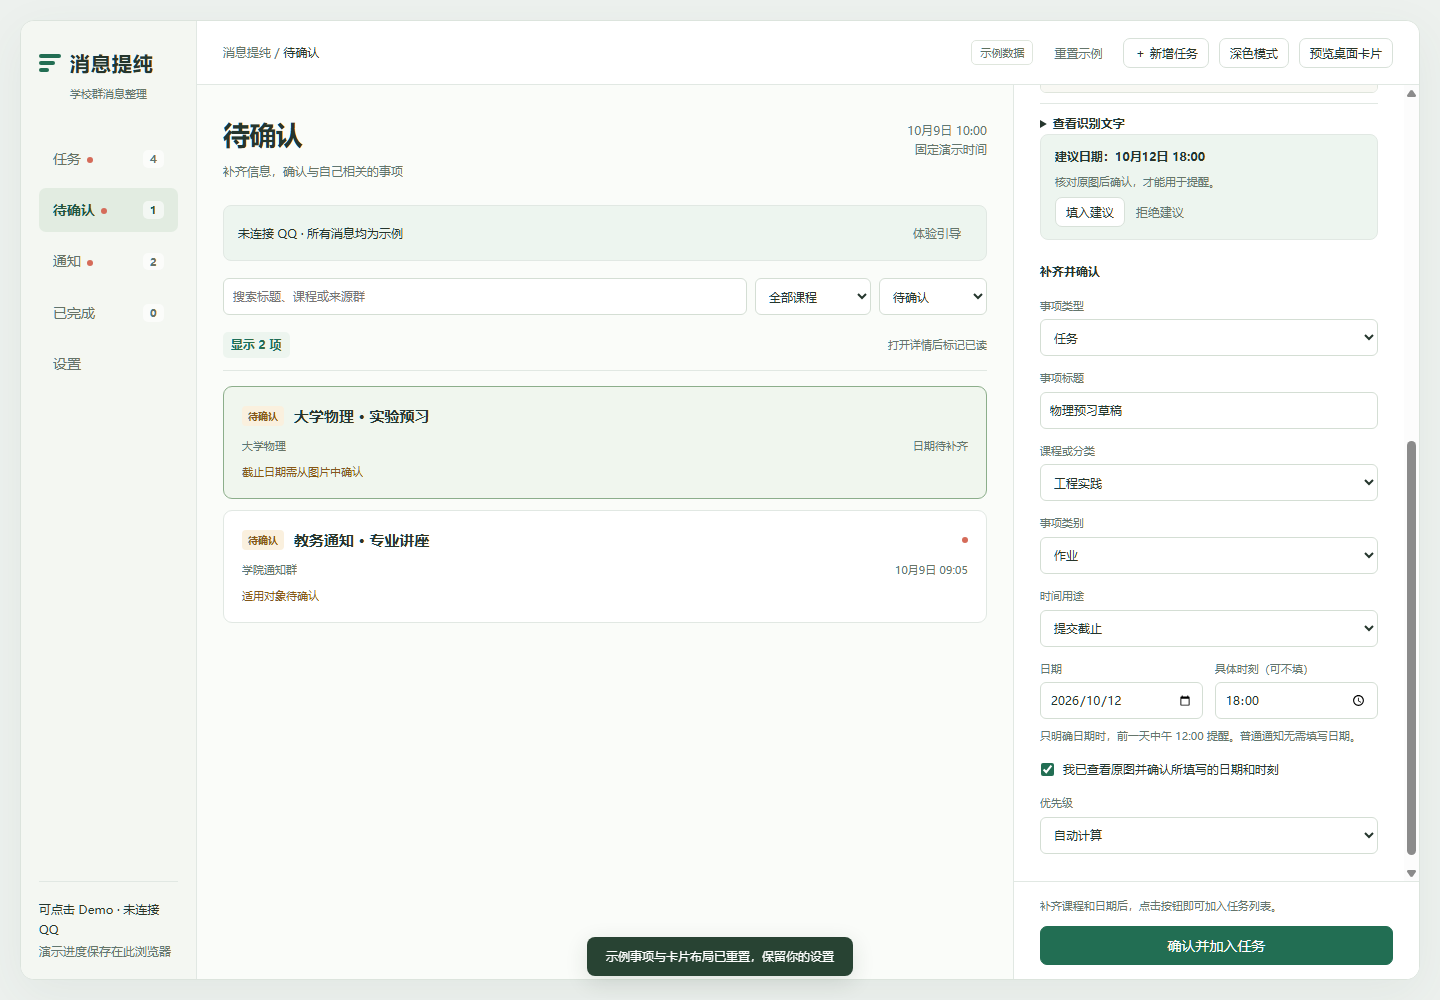
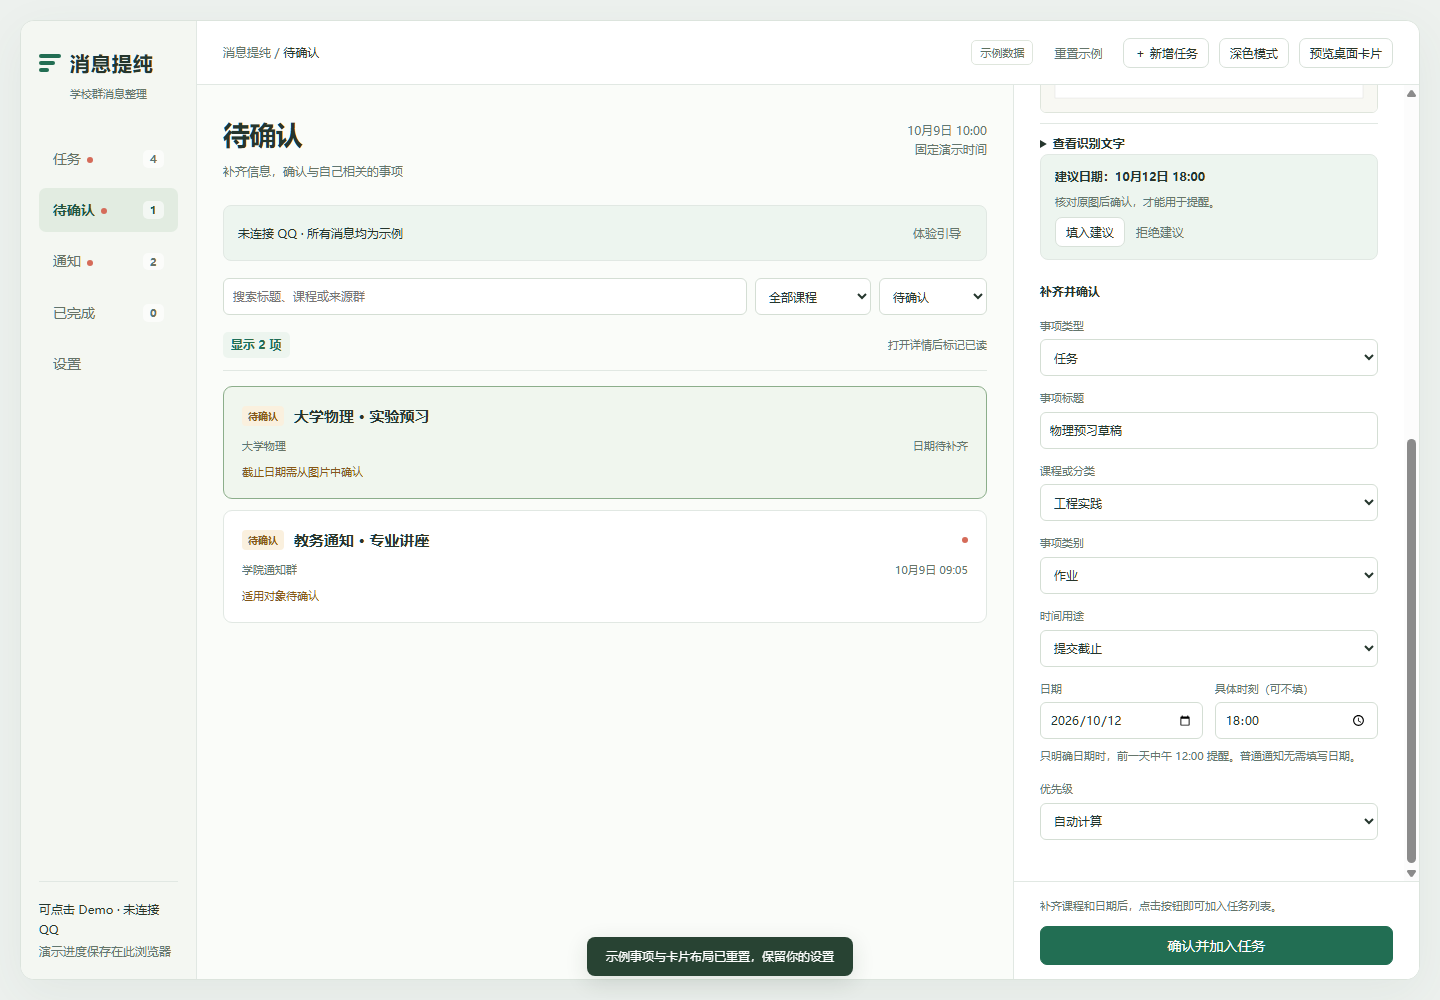
fix: remove redundant image date confirmation

Changed region(s): [[0.7188, 0.093, 0.9688, 0.837]]

diff --git a/prototype/app.js b/prototype/app.js
@@ -142,7 +142,7 @@ function renderList() {
 }
 function editForm(item, mode) {
   const task = mode === 'convert' || item.kind === 'task';
-  return `<form class="form" data-id="${item.id || ''}" data-mode="${mode}" novalidate>${mode === 'pending' ? `<label class="field">事项类型<select name="kind"><option value="task" ${task ? 'selected' : ''}>任务</option><option value="notice" ${!task ? 'selected' : ''}>通知</option></select></label>` : ''}<label class="field">事项标题<input name="title" value="${escapeHTML(item.title)}" required maxlength="150"></label><label class="field">课程或分类<select name="course" data-course-select data-course-value="${escapeHTML(item.course)}" required>${courseSelectHTML(item.course)}</select></label><label class="field">事项类别<select name="taskType">${Object.entries({homework:'作业',exam:'考试',submission:'需要提交的任务',activity:'活动',other:'其他'}).map(([key,label]) => `<option value="${key}" ${key === (item.taskType || 'homework') ? 'selected' : ''}>${label}</option>`).join('')}</select></label><label class="field">时间用途<select name="timeType"><option value="deadline">提交截止</option><option value="start" ${item.timeType === 'start' ? 'selected' : ''}>考试 / 活动开始</option></select></label><div class="form-grid"><label class="field">日期<input type="date" name="due" value="${item.due || ''}"></label><label class="field">具体时刻（可不填）<input type="time" name="time" value="${item.time || ''}"></label></div><p class="hint">只明确日期时，前一天中午 12:00 提醒。普通通知无需填写日期。</p>${item.image ? `<label class="check"><input type="checkbox" name="imageConfirmed" ${item.imageConfirmed ? 'checked' : ''}><span>我已查看原图并确认所填写的日期和时刻</span></label>` : ''}<label class="field">优先级<select name="priority"><option value="">自动计算</option>${['P0','P1','P2','P3'].map(p => `<option ${item.manualPriority === p ? 'selected' : ''}>${p}</option>`).join('')}</select></label><p class="error" role="alert" hidden></p><button class="button primary" type="submit">${mode === 'pending' ? '确认事项' : mode === 'convert' ? '加入任务' : mode === 'new' ? '创建任务' : '保存修改'}</button></form>`;
+  return `<form class="form" data-id="${item.id || ''}" data-mode="${mode}" novalidate>${mode === 'pending' ? `<label class="field">事项类型<select name="kind"><option value="task" ${task ? 'selected' : ''}>任务</option><option value="notice" ${!task ? 'selected' : ''}>通知</option></select></label>` : ''}<label class="field">事项标题<input name="title" value="${escapeHTML(item.title)}" required maxlength="150"></label><label class="field">课程或分类<select name="course" data-course-select data-course-value="${escapeHTML(item.course)}" required>${courseSelectHTML(item.course)}</select></label><label class="field">事项类别<select name="taskType">${Object.entries({homework:'作业',exam:'考试',submission:'需要提交的任务',activity:'活动',other:'其他'}).map(([key,label]) => `<option value="${key}" ${key === (item.taskType || 'homework') ? 'selected' : ''}>${label}</option>`).join('')}</select></label><label class="field">时间用途<select name="timeType"><option value="deadline">提交截止</option><option value="start" ${item.timeType === 'start' ? 'selected' : ''}>考试 / 活动开始</option></select></label><div class="form-grid"><label class="field">日期<input type="date" name="due" value="${item.due || ''}"></label><label class="field">具体时刻（可不填）<input type="time" name="time" value="${item.time || ''}"></label></div><p class="hint">只明确日期时，前一天中午 12:00 提醒。普通通知无需填写日期。</p><label class="field">优先级<select name="priority"><option value="">自动计算</option>${['P0','P1','P2','P3'].map(p => `<option ${item.manualPriority === p ? 'selected' : ''}>${p}</option>`).join('')}</select></label><p class="error" role="alert" hidden></p><button class="button primary" type="submit">${mode === 'pending' ? '确认事项' : mode === 'convert' ? '加入任务' : mode === 'new' ? '创建任务' : '保存修改'}</button></form>`;
 }
 function reminderForm(item) {
   const rule = item.reminder || {mode:'default'};
@@ -325,7 +325,7 @@ document.addEventListener('click',event => {
   if (action === 'ignore') { if (item.state !== 'pending') return; item.state = 'ignored'; item.ignoredAt = Date.now(); render(); notify('已忽略，24 小时内可在“最近忽略”撤销',item); return; }
   if (action === 'archive') { if (item.state !== 'active') return; item.state = 'archived'; log(item,'archived','已归档，停止时间提醒'); resolveReminderSuggestion(item); render(); notify('已归档，可在任务页的“已归档”筛选中恢复'); return; }
   if (action === 'restore') { if (item.state !== 'archived') return; item.state = 'active'; log(item,'restored','手动恢复待办'); ensureReminderCompatibility(item); navigate('tasks',item.id); notify('已恢复待办'); return; }
-  if (action === 'use-image-date') { const form = $('detail-pane').querySelector('form[data-mode=pending]'); form.elements.due.value = '2026-10-12'; form.elements.time.value = '18:00'; form.elements.imageConfirmed.checked = false; form.elements.due.focus(); return; }
+  if (action === 'use-image-date') { const form = $('detail-pane').querySelector('form[data-mode=pending]'); form.elements.due.value = '2026-10-12'; form.elements.time.value = '18:00'; form.elements.due.focus(); return; }
   if (action === 'reject-image-date') { item.imageSuggestionRejected = true; button.closest('.change-box').remove(); persist(); return; }
   if (action === 'open-reminder') { showDesktop(false); navigate('tasks',item.id); $('reminder-settings').open = true; $('reminder-settings').scrollIntoView({block:'nearest'}); return; }
   if (action === 'default-reminder' || action === 'off-reminder') { const target = items.find(i=>i.id === item.targetId); target.reminder = {mode:action === 'off-reminder' ? 'off' : 'default'}; target.reminderFallback = false; resolveReminderSuggestion(target); render(); notify('提醒设置已更新'); return; }
@@ -345,10 +345,6 @@ document.addEventListener('input',event => {
     const value = event.target.value, position = event.target.selectionStart;
     renderList(); const search = $('search'); search.focus(); search.value = value; search.setSelectionRange(position,position);
     renderDetail(); renderNav(); renderDesktop(); persist();
-  }
-  if (['due','time'].includes(event.target.name)) {
-    const checkbox = event.target.form?.elements.imageConfirmed;
-    if (checkbox) checkbox.checked = false;
   }
 });
 document.addEventListener('change',event => {
@@ -389,11 +385,11 @@ document.addEventListener('submit',event => {
   }
   const kind = mode === 'new' || mode === 'convert' ? 'task' : mode === 'pending' ? data.get('kind') : item.kind;
   const title = data.get('title').trim(), course = data.get('course').trim(), due = data.get('due'), time = data.get('time'), timeType = data.get('timeType');
-  const message = !title ? '请填写事项标题。' : !course ? '请确认课程或分类。' : kind === 'task' && !due ? '请填写并确认截止日期或开始日期。' : time && !due ? '请同时填写日期。' : item?.image && kind === 'task' && !data.get('imageConfirmed') ? '请查看原图并勾选日期和时刻确认。' : '';
+  const message = !title ? '请填写事项标题。' : !course ? '请确认课程或分类。' : kind === 'task' && !due ? '请填写并确认截止日期或开始日期。' : time && !due ? '请同时填写日期。' : '';
   if (message) { error(message); return; }
   const target = mode === 'new' ? {id:crypto.randomUUID(),group:'手动添加',sender:'我',sent:'演示日期 · 手动录入',text:'手动添加的任务。',manual:true,unread:false,reminder:{mode:'default'},history:[]} : item;
   const protectedTime = mode === 'new' || mode !== 'save' || due !== target.due || time !== target.time || timeType !== target.timeType;
-  Object.assign(target,{title,course,due:kind === 'task' ? due : '',time:kind === 'task' ? time : '',timeType,taskType:data.get('taskType'),kind,state:'active',manualPriority:data.get('priority'),imageConfirmed:Boolean(data.get('imageConfirmed'))});
+  Object.assign(target,{title,course,due:kind === 'task' ? due : '',time:kind === 'task' ? time : '',timeType,taskType:data.get('taskType'),kind,state:'active',manualPriority:data.get('priority'),imageConfirmed:Boolean(target.image && kind === 'task')});
   if (protectedTime) target.protectedTime = true;
   if (mode === 'new') { items.push(target); $('new-dialog').close(); }
   if (kind === 'task') ensureReminderCompatibility(target);

diff --git a/docs/HANDOFF.md b/docs/HANDOFF.md
@@ -6,12 +6,20 @@
 
 - 项目目录：`D:\ai制作的软件\消息提纯`。
 - 先读项目根目录的 `AGENTS.md`，再读本文及 `docs/requirements.md`。
-- 当前阶段：**用户反馈 demo 基本满足要求，确认 QQ 已在电脑登录并授权完成准备后开始编写代码。整体设计已确认、实施计划已写入，M1 已完成：开发环境及时间、提醒、状态 C# 核心已写入，87 项核心测试通过。下一步 M2 本地规则与样本，随后 M3 真实集成验证。新版 demo 的 102 项浏览器检查继续通过，真实 QQ／OCR／Windows 通知集成尚未接入。**
+- 当前阶段：**用户反馈 demo 基本满足要求，确认 QQ 已在电脑登录并授权完成准备后开始编写代码。整体设计已确认、实施计划已写入，M1 已完成：开发环境及时间、提醒、状态 C# 核心已写入，87 项核心测试通过。demo 已删除图片日期的独立二次勾选，107 项浏览器检查通过。下一步 M2 本地规则与样本，随后 M3 真实集成验证；真实 QQ／OCR／Windows 通知集成尚未接入。**
 - 当前可交付产物：文档、原型及六张预览继续保留；新增 `global.json`、`.gitignore`、`src/MessagePurify.Core/MessagePurify.Core.csproj`、`Time/TaskTime.cs`、`Reminders/ReminderPlanner.cs`、`State/TaskTransitions.cs`（均在该 Core 目录下），`tests/MessagePurify.Core.Tests/MessagePurify.Core.Tests.csproj` 及 `TaskTimeTests.cs`、`ReminderPlannerTests.cs`、`TaskTransitionsTests.cs`，两个项目各有 `packages.lock.json`。可重复运行的检查及说明见 `tests/project-rules.test.mjs`、`tests/prototype-qa.mjs`、`tests/README.md`。
 - demo 已写入并运行浏览器验证，双击 `prototype/index.html` 可打开。事项、偏好、自定义课程／分类、撤销时间戳及桌面模拟布局保存在此浏览器的本地存储，刷新保留进度；“重置示例”恢复事项和卡片布局并保留设置及自定义课程／分类。事项时间固定为 2026-10-09 10:00（北京时间），撤销期限使用真实经过时间。用户已确认普通 QQ 在电脑登录；本项目尚未安装或接入 NapCat/OCR，尚未验证 OneBot 连接，没有注册 Windows 自动启动，没有真实桌面驻留或系统通知测试结果。
 - 用户要求持续维护交接文档；这是已授权的工作，以后有变化直接同步，不再反复询问是否记录。
 
-### 本轮正式开发启动
+### 本轮 demo 删除日期二次确认
+
+- 用户要求删除截图中的“我已查看原图并确认所填写的日期和时刻”勾选框。demo 改为填写日期后通过现有确认／保存按钮一次提交，不再单独勾选；填入图片建议仍只更新草稿，提交前不写正式时间。
+- 已删除勾选框、修改日期后的勾选重置和提交拦截；图片任务通过现有按钮提交后仍记录已确认时间及手动保护。填入建议、修改后保存、刷新、仅日期、图片转通知和自定义课程草稿保留均有浏览器检查；M1 核心和 M2 接续顺序不变。
+- 实际执行 `node tests/prototype-qa.mjs --screenshots`，退出码 0、107 项检查通过，无浏览器运行异常；执行 `node --test tests/project-rules.test.mjs`（9 项）、`.tools/dotnet/dotnet.exe test tests/MessagePurify.Core.Tests --no-restore --configuration Release`（87 项）、`node --check prototype/app.js`、`node --check tests/prototype-qa.mjs`、`git diff --check`，均退出码 0。需求、体验说明及测试说明同步更新；对应提交说明为 `fix: remove redundant image date confirmation`，标识以 Git 日志为准。
+- 未找到 `maintain-context-hygiene` 技能，已按项目规则人工核对需求、交接、实际代码及验证范围，原图／OCR 建议仍不自动确立正式时间。
+- 更新并查看 `prototype/previews/courses.png`，确认日期输入下直接显示优先级，不再出现二次勾选；课程截图在滚动完成后捕获。本轮保留这一处相关预览更新。
+
+### 上轮正式开发启动
 
 - 用户明确授权准备完成后开始编写代码，沿用既有 M1 计划，不重新选择 NapCat、本地运行或课程名单获取方式。
 - QQ 已在电脑登录来自用户说明，尚未检查 NapCat 对应 QQ 环境；真实集成仍按 M3 执行，不把普通 QQ 登录写成已接入。
@@ -353,3 +361,4 @@
 | 2026-10-10 | 用户确认 QQ 已在电脑登录并授权准备完成后开始编写代码；完成 M1 Task 1 | 在 codex/m1-core-foundation 分支安装项目专用 SDK 10.0.401、锁定依赖并编写日期／时刻／时区模型；10 项核心、9 项文档和 102 项浏览器检查通过，实际命令见第 1 节。提醒／状态核心继续实施，真实 QQ 接入尚未验证 |
 | 2026-10-10 | 完成 M1 Task 2 默认及自定义提醒计算 | 新增提醒纯函数与 33 项测试，合计 43 项核心检查通过；日期精度不造时刻，小时失效返回默认及 NeedsReview，关闭状态保留。校正计划示例以保证提前节点严格早于精确基准；系统调度／投递尚未实现 |
 | 2026-10-10 | 完成 M1 Task 3 状态与字段保护；M1 核心基础完成 | 新增状态纯函数与 44 项测试，合计 87 项核心检查通过；取消优先、延期后撤销保留最新值、完成 1 小时／忽略 24 小时边界均验证。SDK、三个核心模块及测试已写入，真实 NapCat／OCR／WPF／SQLite／系统通知仍在后续阶段；下一步 M2 |
+| 2026-10-10 | 用户要求删除 demo 图片日期的独立二次确认勾选 | 填入／修改日期后直接通过确认或保存按钮提交，建议填入仍仅更新草稿。新增和更新浏览器回归，107 项浏览器、9 项文档及 87 项核心测试通过，需求与交接同步 |

diff --git a/tests/README.md b/tests/README.md
@@ -13,7 +13,7 @@ node tests/prototype-qa.mjs
 
 Node 文档测试包含 9 项检查：协作规则同步、小任务规则优先级、交付文件和文档链接、整体设计及核心开发状态、全部设计验收场景的计划覆盖、新版演示的保存方式和真实集成边界，以及 QQ 登录与 OneBot 连接分别记录。
 
-浏览器测试包含 102 项检查，覆盖原有主题／动画、排序、桌面卡片、图片确认及通知转任务，并新增：首次引导、已读行为、完成 1 小时／忽略 24 小时撤销及刷新、归档恢复、搜索与筛选、手动任务与开始时间、自定义提醒、延期及精度失效、人工字段冲突、新行动要求、取消、图片放大及 OCR 折叠、通知内容／声音意图预览、设置与桌面布局保存。详情栏的回归检查在 1100×800 窗口中确认长内容不被裁切，使用 Chrome 原生鼠标滚轮上下滚动及原生点击固定确认按钮，核对任务／通知的去向和错误提示可见性。课程相关新增 16 项检查，覆盖共享选项、两处自定义入口、刷新和重置、重复／空白名称、取消恢复选择、未提交表单保留、待确认／手动任务使用自定义课程及筛选。测试在截止边界显式验证撤销资格，并通过过期动作检查防止越界恢复；未实际等待 1 小时或 24 小时。动画与系统主题测试显式模拟媒体偏好，不依赖本机 Windows 设置。
+浏览器测试包含 107 项检查，覆盖原有主题／动画、排序、桌面卡片、图片确认及通知转任务，并新增：首次引导、已读行为、完成 1 小时／忽略 24 小时撤销及刷新、归档恢复、搜索与筛选、手动任务与开始时间、自定义提醒、延期及精度失效、人工字段冲突、新行动要求、取消、图片放大及 OCR 折叠、通知内容／声音意图预览、设置与桌面布局保存。图片日期不再单独勾选，检查没有二次勾选框、未提交建议不确立正式时间、按钮直接提交、修改后保存及刷新、仅日期和图片通知提交。详情栏的回归检查在 1100×800 窗口中确认长内容不被裁切，使用 Chrome 原生鼠标滚轮上下滚动及原生点击固定确认按钮，核对任务／通知的去向和错误提示可见性。课程相关 16 项检查覆盖共享选项、两处自定义入口、刷新和重置、重复／空白名称、取消恢复选择、未提交表单保留、待确认／手动任务使用自定义课程及筛选。测试在截止边界显式验证撤销资格，并通过过期动作检查防止越界恢复；未实际等待 1 小时或 24 小时。动画与系统主题测试显式模拟媒体偏好，不依赖本机 Windows 设置。
 
 真实应用已创建 .NET 核心测试项目，OCR 测试项目尚未创建。后续按 [总计划](../docs/superpowers/plans/2026-10-10-windows-app-implementation.md) 将新增测试命令补入本文；计划中的示例和验收目标不计为已运行测试。
 

diff --git a/prototype/README.md b/prototype/README.md
@@ -4,7 +4,7 @@
 
 ## 建议体验顺序
 
-1. 在“待确认”打开大学物理事项，点击图片放大，展开“查看识别文字”。右侧内容可用滚轮滚动；填入建议日期、勾选确认后，点击右侧底部固定的“确认并加入任务”。其他事项若要转为任务，先将“事项类型”选为“任务”，补齐课程和日期后确认；保留为通知时，按钮显示“确认并保留为通知”。
+1. 在“待确认”打开大学物理事项，点击图片放大，展开“查看识别文字”。右侧内容可用滚轮滚动；填入或修改日期后，直接点击右侧底部固定的“确认并加入任务”，无需额外勾选。填入建议只更新表单，提交后才确立正式时间；后续编辑同样直接保存。其他事项若要转为任务，先将“事项类型”选为“任务”，补齐课程和日期后确认；保留为通知时，按钮显示“确认并保留为通知”。
 2. 在“任务”完成一个事项，点击提示中的“撤销”；也可以到“已完成”中撤销。完成后 1 小时内有效。
 3. 忽略一条待确认事项，通过状态筛选进入“最近忽略”，24 小时内可以撤销。
 4. 归档一个任务，在任务页的“已归档”筛选中恢复。

diff --git a/docs/requirements.md b/docs/requirements.md
@@ -40,6 +40,7 @@
 - 文字消息完整时，图片和 OCR 文字作为卡片的辅助信息。
 - 文字消息缺少时间等关键信息时进入待确认，展示原图及 OCR 文字供用户手动补齐。
 - 图片中的日期须经用户确认后才能用于提醒；OCR 失败时仍保留原图。
+- demo 删除“我已查看原图并确认所填写的日期和时刻”的独立勾选框。用户填写或修改日期后，点击“确认并加入任务”或“保存修改”即完成确认；“填入建议”仅填入表单，提交前不确立正式时间。
 
 ## 5. 任务合并与变更
 
